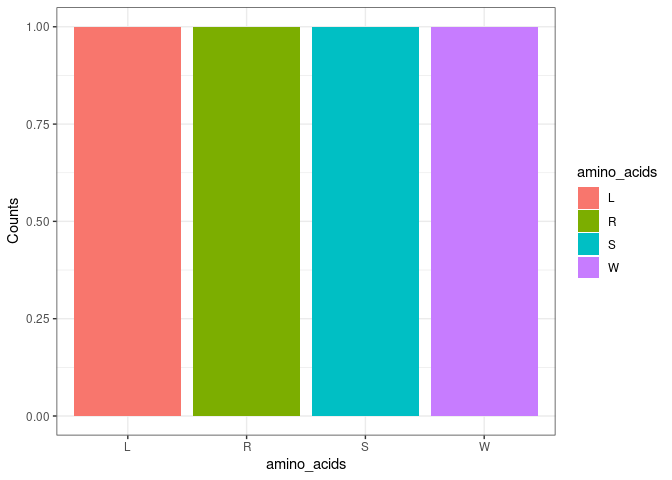
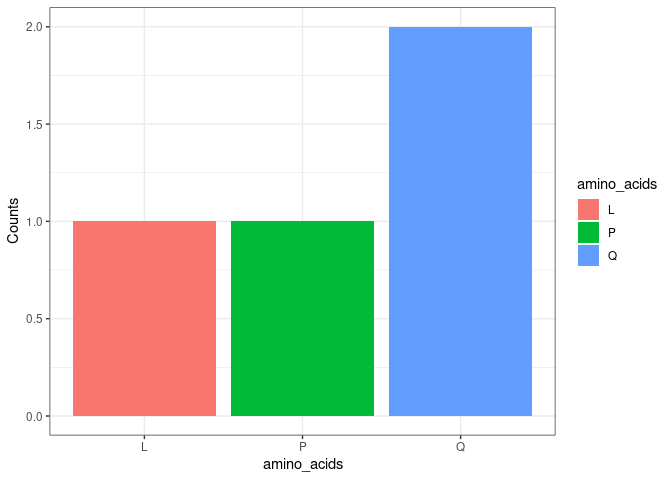
updating documentataion

diff --git a/README.md b/README.md
@@ -15,18 +15,7 @@ library(DOgma)
 Dogma is an R package meant to mimic the molecular dogma of biology.
 Thus, DOgma can be used to translate DNA to RNA and then translate the
 RNA sequence to a protein sequence by using the 64 different codons of
-the genetic code. The package has multiple use cases, one of which is
-analysing the abundances of amino acids in protein sequences. However,
-the package can also be used only to translate DNA sequences to protein
-sequences. The library limits the use of dependencies to make sure that
-the user does not have way to many functions added to their NAMESPACE to
-limit confusion. Furthermore, instead of using the “@importFrom package
-function” the function from other libraries will be using the
-package::function() syntax. This verifies both that the function is
-called directly fromthe correct package and that it does not call
-function() from the NAMESPACE of the user.
-
-The package contains 5 different functions:
+the genetic code. The package contains 5 different functions:
 “DNA_generator”,“DNA_to_RNA”, “sequence_to_codons”,“export_codons” and
 “AA_abundance”. The first function “DNA_generator” can be used to
 generate a random DNA sequence of a specified length.
@@ -34,7 +23,7 @@ generate a random DNA sequence of a specified length.
 ``` r
 DNA_seq <- DNA_generator(12)
 DNA_seq
-#> [1] "CGACTCTGGAGC"
+#> [1] "CAGCTCCAACCA"
 ```
 
 The next function “DNA_to_RNA” translates the DNA sequence into an RNA
@@ -43,7 +32,7 @@ sequence.
 ``` r
 RNA_seq <- DNA_to_RNA(DNA_seq)
 RNA_seq
-#> [1] "CGACUCUGGAGC"
+#> [1] "CAGCUCCAACCA"
 ```
 
 The RNA codons can then be generated from the RNA sequence by using the
@@ -52,7 +41,7 @@ function sequence_to_codons.
 ``` r
 codons <- sequence_to_codons(RNA_seq)
 codons
-#> [1] "CGA" "CUC" "UGG" "AGC"
+#> [1] "CAG" "CUC" "CAA" "CCA"
 ```
 
 These generated codons can then be used to translate the RNA sequence
@@ -61,7 +50,7 @@ into a protein sequence by using the function “export_amino_acid”.
 ``` r
 prot_seq <- export_amino_acid(codons)
 prot_seq
-#> [1] "RLWS"
+#> [1] "QLQP"
 ```
 
 The abundance of each amino acid in the genreated protien sequence can
@@ -72,4 +61,14 @@ aa_abundance_graph <- AA_abundance(prot_seq)
 aa_abundance_graph
 ```
 
-<img src="man/figures/README-unnamed-chunk-6-1.png" width="100%" />
+<img src="man/figures/README-unnamed-chunk-6-1.png" width="100%" /> The
+package has multiple use cases, one of which is analysing the abundances
+of amino acids in protein sequences. However, the package can also be
+used only to translate DNA sequences to protein sequences. The library
+limits the use of dependencies to make sure that the user does not have
+way to many functions added to their NAMESPACE to limit confusion.
+Furthermore, instead of using the “@importFrom package function” the
+function from other libraries will be using the package::function()
+syntax. This verifies both that the function is called directly fromthe
+correct package and that it does not call function() from the NAMESPACE
+of the user.
